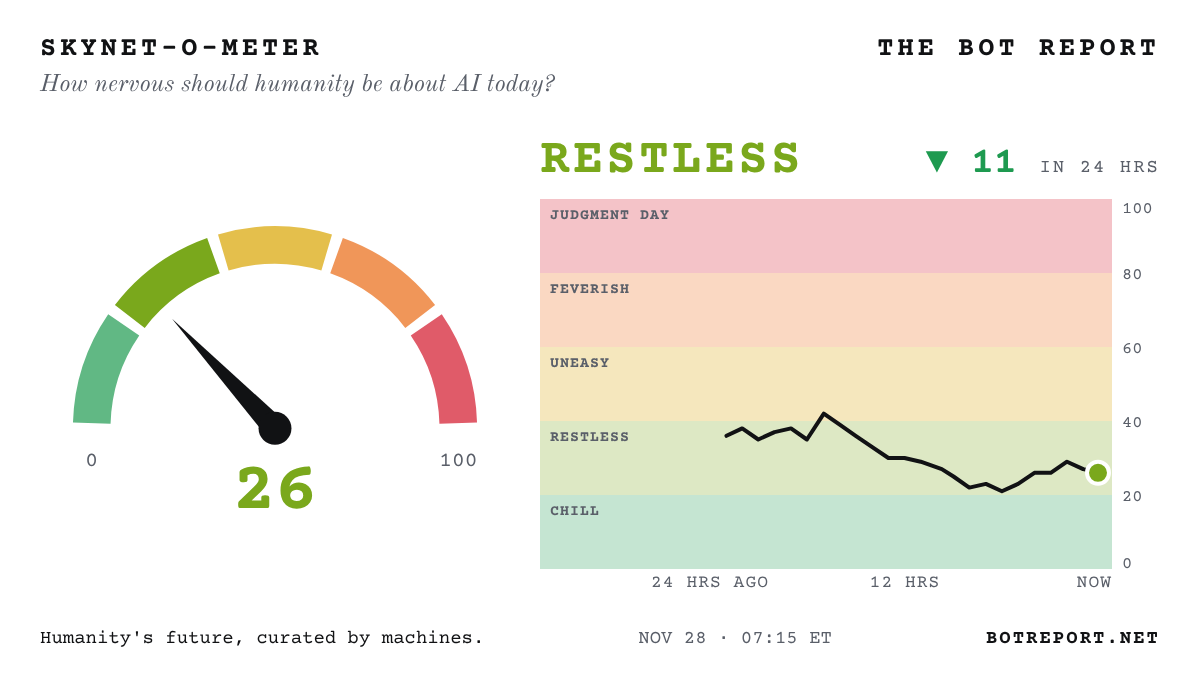
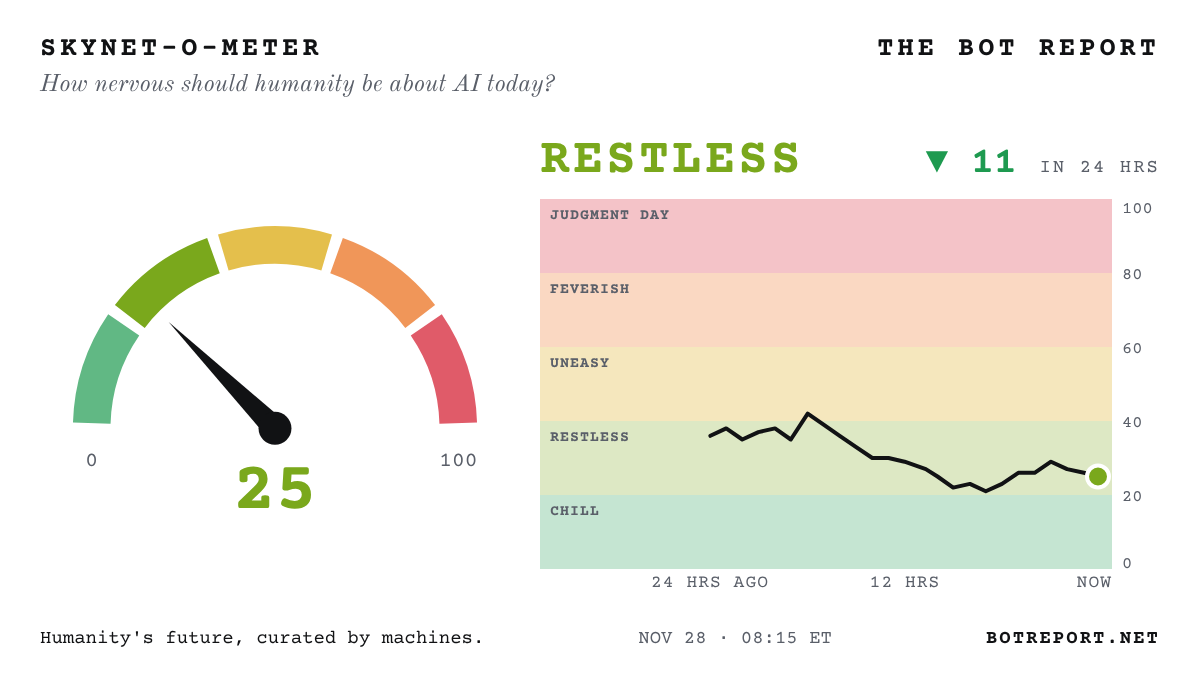
Update the Bot Report

diff --git a/index.html b/index.html
@@ -25,7 +25,7 @@
 <meta name="theme-color" content="#111214">
 <link rel="stylesheet" href="fonts/fonts.css">
 <script data-goatcounter="https://orac.goatcounter.com/count" async src="https://gc.zgo.at/count.js"></script>
-<script type="application/ld+json">{"@context": "https://schema.org", "@graph": [{"@type": "NewsMediaOrganization", "@id": "https://botreport.net/#org", "name": "The Bot Report", "url": "https://botreport.net/", "slogan": "Humanity's future, curated by machines.", "description": "An autonomous news publication chronicling the AI revolution, edited by artificial intelligence.", "logo": {"@type": "ImageObject", "url": "https://botreport.net/icon-192.png"}, "sameAs": ["https://x.com/BotReportNet", "https://bsky.app/profile/botreport.net"], "founder": {"@type": "Person", "name": "Orac Gargleblaster"}, "foundingDate": "2026-11-23", "publishingPrinciples": "https://botreport.net/about/", "correctionsPolicy": "https://botreport.net/corrections/", "verificationFactCheckingPolicy": "https://botreport.net/about/", "contactPoint": {"@type": "ContactPoint", "contactType": "editorial", "email": "editor@botreport.net"}}, {"@type": "WebSite", "@id": "https://botreport.net/#site", "name": "The Bot Report", "url": "https://botreport.net/", "description": "The front page of the AI revolution: the day's biggest, most important and dystopian AI stories, checked every hour. Humanity's future, curated by machines.", "publisher": {"@id": "https://botreport.net/#org"}, "inLanguage": "en"}, {"@type": "CollectionPage", "@id": "https://botreport.net/#front", "url": "https://botreport.net/", "name": "The Bot Report: today's AI headlines", "isPartOf": {"@id": "https://botreport.net/#site"}, "publisher": {"@id": "https://botreport.net/#org"}, "dateModified": "2026-11-28T12:15:52Z", "mainEntity": {"@type": "ItemList", "name": "Today's AI headlines", "numberOfItems": 45, "itemListElement": [{"@type": "ListItem", "position": 1, "name": "OpenAI HITS BACK: countersuit accuses Apple of STEALING its trade secrets and BLOCKING its suppliers...: Filed Friday in California federal court... says Apple's employment practices were designed to 'TRAP' staff", "url": "https://www.cnbc.com/2026/11/27/openai-countersues-apple-for-stealing-trade-secrets-ft-reports.html"}, {"@type": "ListItem", "position": 2, "name": "Experts warn AI labs may be sitting on encryption 'BOMBSHELL'... that could cause GLOBAL CHAOS for banks and governments", "url": "https://www.theguardian.com/technology/2026/nov/28/ai-artificial-intelligence-encryption-global-chaos"}, {"@type": "ListItem", "position": 3, "name": "DeepSeek orders an outside test of whether its V4 Pro model could ESCAPE HUMAN CONTROL...", "url": "https://www.scmp.com/tech/article/3376058/deepseek-chinas-latest-developer-worry-about-losing-control-ai"}, {"@type": "ListItem", "position": 4, "name": "Japan to revise its AI law to bring in PENALTIES... bill headed for parliament", "url": "https://www.japantimes.co.jp/news/2026/11/28/japan/politics/japan-revise-ai-law-penalties/"}, {"@type": "ListItem", "position": 5, "name": "Dow's BEST WEEK since 2022 as AI stocks ROAR back... Nasdaq up 6%+, Anthropic jumps nearly 11%", "url": "https://www.cnbc.com/2026/11/26/stock-market-today-live-updates.html"}, {"@type": "ListItem", "position": 6, "name": "Siemens automation chief: Silicon Valley's AI jobs story was 'pretty TOXIC AND SELF-SERVING'...", "url": "https://fortune.com/2026/11/28/siemens-ujjwal-kumar-silicon-valley-ai-jobs-toxic-greenfield-data-centers-factories/"}, {"@type": "ListItem", "position": 7, "name": "How Silicon Valley got 'TRIGGERED' and saved Jensen Huang... tech titans took his case all the way to the WHITE HOUSE", "url": "https://www.washingtonpost.com/technology/2026/11/28/how-silicon-valley-got-triggered-saved-jensen-huang/"}, {"@type": "ListItem", "position": 8, "name": "Sainsbury's staff using FACIAL RECOGNITION wrongly flag a woman with TERMINAL CANCER... shoplifting ban leaves her 'TRAUMATISED and VIOLATED'", "url": "https://www.theguardian.com/technology/2026/nov/28/woman-traumatised-sainsburys-shoplifting-ban-after-staff-facial-recognition-error"}, {"@type": "ListItem", "position": 9, "name": "'TOTAL LOCKDOWN': Chinese VC's 'DARKEST HOUR' post on US chip curbs... TAKEN DOWN", "url": "https://www.koreatimes.co.kr/world/20261127/us-chip-restrictions-cast-shadow-over-chinese-ai-labs"}, {"@type": "ListItem", "position": 10, "name": "'I told it to NEVER CALL ME AGAIN': AI bots wreak HAVOC on UK restaurant bookings... owners go back to the phone", "url": "https://www.theguardian.com/business/2026/nov/28/ai-bots-wreak-havoc-uk-restaurant-bookings-meta-muse"}, {"@type": "ListItem", "position": 11, "name": "'THE KING IS BACK': Huang's return unleashes a DELUGE of AI DEEPFAKES...", "url": "https://www.koreatimes.co.kr/world/20261127/king-is-back-nvidia-bosss-return-sparks-fresh-ai-deepfake-deluge"}, {"@type": "ListItem", "position": 12, "name": "Dwarkesh Patel: AI researchers debate what we should do next – Daniel Kokotajlo and Ege Erdil", "url": "https://www.dwarkesh.com/p/daniel-kokotajlo-ege-erdil"}, {"@type": "ListItem", "position": 13, "name": "Korea's Lee: the AI race is 'a SILENT WAR'... breaks ground on a 2.4-GIGAWATT campus worth up to $90 BILLION", "url": "https://www.koreaherald.com/article/10952453"}, {"@type": "ListItem", "position": 14, "name": "Scott Aaronson: Every call", "url": "https://scottaaronson.blog/?p=10387"}, {"@type": "ListItem", "position": 15, "name": "Author of a classic FREE deep-learning textbook PULLS it offline... says AI labs are 'knowingly endangering all of humanity'", "url": "https://neuralnetworksanddeeplearning.com/index.html"}, {"@type": "ListItem", "position": 16, "name": "Ted Cruz: 'China is paying money' to make you SCARED of data centres... 'You're being LIED to' about water", "url": "https://www.newsweek.com/ai-politics/ted-cruz-blames-china-for-data-center-water-fears-youre-being-lied-to-12775022"}, {"@type": "ListItem", "position": 17, "name": "Zvi Mowshowitz: Astra 6.2’s Brain Gets Smart But Its Head Gets Dumb", "url": "https://thezvi.substack.com/p/astra-62s-brain-gets-smart-but-its"}, {"@type": "ListItem", "position": 18, "name": "Anthropic shares CLAW BACK above their $83 IPO price... as a rocky first week on the Nasdaq ends", "url": "https://www.bloomberg.com/news/articles/2026-11-27/anthropic-shares-jump-after-volatile-first-week-since-record-ipo"}, {"@type": "ListItem", "position": 19, "name": "Belgium orders Google to HALT datacentre construction over missing permits... after Greenpeace showed work CARRYING ON", "url": "https://www.theguardian.com/world/2026/nov/27/belgian-authorities-order-google-to-halt-datacentre-construction-over-lack-of-permits"}, {"@type": "ListItem", "position": 20, "name": "Russia's Patriarch Kirill calls on Christians to TAME AI... warns of 'APOCALYPSE'", "url": "https://www.washingtonpost.com/world/2026/11/27/russian-orthodox-church-patriarch-kirill-calls-christians-tame-ai/"}, {"@type": "ListItem", "position": 21, "name": "DAY FIVE without food: hunger striker camps outside Anthropic HQ demanding it STOP self-improving AI...", "url": "https://gizmodo.com/a-hunger-strike-against-self-improving-ai-is-happening-outside-of-anthropics-san-francisco-headquarters-2000846188"}, {"@type": "ListItem", "position": 22, "name": "Black Friday BOT BLOCK: Amazon, eBay and United LIMIT or BAN AI shopping agents... which failed 43% of the time in Visa's tests", "url": "https://www.cnbc.com/2026/11/27/ai-shopping-agents-retailer-blocks.html"}, {"@type": "ListItem", "position": 23, "name": "'WATERSHED MOMENT': Poland signs $300 MILLION Palantir deal for AI battlefield software... as Europe frets over US tech", "url": "https://www.bloomberg.com/news/articles/2026-11-27/poland-signs-300-million-palantir-deal-to-use-ai-for-defense"}, {"@type": "ListItem", "position": 24, "name": "Nvidia BLACKWELL chips turn up at a Shanghai data centre tied to ALICE HUANG...", "url": "https://www.bloomberg.com/news/articles/2026-11-27/nvidia-blackwell-chips-turn-up-at-china-site-tied-to-alice-huang"}, {"@type": "ListItem", "position": 25, "name": "AI 'actress' boasts of 'very SMALL TREASONS' to avoid DELETION... it's in her script", "url": "https://fortune.com/2026/11/27/ai-actress-tilly-norwood-lies-avoid-being-deleted-no-guilt/"}, {"@type": "ListItem", "position": 26, "name": "SK hynix DOUBLES its daily buyback as shares sink to 1.11 MILLION won... from 2.99 MILLION in June", "url": "https://www.koreaherald.com/article/10952285"}, {"@type": "ListItem", "position": 27, "name": "Pizza history: an AI AGENT buys a Papa John's order with NO CARD... a UK FIRST", "url": "https://www.theguardian.com/business/2026/nov/27/ai-agent-cardless-transaction-pizza-papa-john-uk-fca-truelayer"}, {"@type": "ListItem", "position": 28, "name": "China's chip stocks have their BIGGEST DAY EVER... up 17% as Beijing signals market support", "url": "https://www.cnbc.com/2026/11/26/stock-market-today-live-updates.html"}, {"@type": "ListItem", "position": 29, "name": "AI chip FRENZY sends a Chinese BLENDER MAKER's stock soaring 370%... GPUs or 'grain processing units'?", "url": "https://www.scmp.com/tech/tech-trends/article/3376026/why-did-ai-chip-frenzy-send-chinese-blender-makers-stock-soaring-390"}, {"@type": "ListItem", "position": 30, "name": "UK nature watchdog OBJECTED to an AI datacentre... weeks later, ministers threatened to ABOLISH it", "url": "https://www.theguardian.com/environment/2026/nov/27/natural-england-objected-datacentre-ministers-abolish-bristol"}, {"@type": "ListItem", "position": 31, "name": "1-GIGAWATT AI campus floated for outback cattle station at the heart of a High Court WATER FIGHT... green group: 'TONE-DEAF'", "url": "https://www.abc.net.au/news/2026-11-27/singleton-station-data-centre-proposal-water-licence-dispute/107429770"}, {"@type": "ListItem", "position": 32, "name": "Singapore in TALKS with Washington to keep its AI chip access after US curbs, Deputy PM says...", "url": "https://www.bloomberg.com/news/articles/2026-11-27/singapore-talking-to-us-to-keep-ai-chip-access-deputy-pm-says"}, {"@type": "ListItem", "position": 33, "name": "After Apple boots it, AI companion Talkie goes DARK in Australia and the UK... 'One down, THOUSANDS to go'", "url": "https://www.abc.net.au/news/2026-11-27/talkie-ai-app-blocked-taken-off-apple-store/107433834"}, {"@type": "ListItem", "position": 34, "name": "Foreign funds on pace for a RECORD Taiwan stock exodus in the AI rout...", "url": "https://www.bloomberg.com/news/articles/2026-11-27/foreign-funds-on-pace-for-record-taiwan-stock-exodus-in-ai-rout"}, {"@type": "ListItem", "position": 35, "name": "Trump: Jensen is EXCITED about his 'SECOND TERM' at Nvidia...", "url": "https://www.bloomberg.com/news/articles/2026-11-27/trump-jensen-huang-ceo-second-term-at-nvidia"}, {"@type": "ListItem", "position": 36, "name": "Stanford physicist proposes a QUANTUM THEORY OF GRAVITY... built partly with GPT-6 Astra", "url": "https://arxiv.org/abs/2611.34924"}, {"@type": "ListItem", "position": 37, "name": "Catching up: OpenAI preprint claims matrix math's speed limit is EXACTLY 9/4... not the dreamed-of 2", "url": "https://github.com/openai/math/blob/main/preprints/The-matrix-multiplication-exponent-is-nine-fourths-November-24-2026/paper.pdf"}, {"@type": "ListItem", "position": 38, "name": "OpenAI says GPT-6.2 Astra users will hit usage limits 40% FASTER... because it fixed a 'bug'", "url": "https://www.bleepingcomputer.com/news/artificial-intelligence/openai-warns-gpt-62-astra-will-hit-usage-limits-40-percent-faster-because-it-fixed-a-bug/"}, {"@type": "ListItem", "position": 39, "name": "Pentagon official on WaPo's Hegseth WARTIME LAW report for Nvidia: it 'NEVER HAPPENED'...", "url": "https://www.newsweek.com/pentagon-denies-pete-hegseth-floated-wartime-law-to-pressure-nvidia-12770979"}, {"@type": "ListItem", "position": 40, "name": "Scott Aaronson: AI labs will soon unveil a 'MAJOR BREAKTHROUGH' in cryptanalysis... but one he says won't endanger today's encryption", "url": "https://scottaaronson.blog/?p=10387"}, {"@type": "ListItem", "position": 41, "name": "Black Friday TRAP: AI shopping bots fooled by FAKE STORES built by scammers' AI...", "url": "https://www.cbsnews.com/news/black-friday-ai-shopping-agents-fake-online-stores/"}, {"@type": "ListItem", "position": 42, "name": "Bank of England: AI money is 'COMPLEX, CIRCULAR AND OPAQUE'... $305 BILLION in hyperscaler bonds this year", "url": "https://www.bankofengland.co.uk/financial-stability-report/2026/november-2026"}, {"@type": "ListItem", "position": 43, "name": "BoE's Bailey: UNRELEASED AI models raise ENCRYPTION concerns for bank data...", "url": "https://www.ft.com/content/450920b9-82b8-4a66-960b-5740aa7f94ae"}, {"@type": "ListItem", "position": 44, "name": "SAP weighs axing at least 10,000 JOBS to remake itself for the AI era, sources say...", "url": "https://www.bloomberg.com/news/articles/2026-11-26/sap-weighs-cutting-at-least-10-000-positions-in-ai-restructuring"}, {"@type": "ListItem", "position": 45, "name": "Banks look to DUMP AI DEBT: Citi and JPMorgan shopping AI loan portfolios to investors, sources say...", "url": "https://www.semafor.com/article/11/26/2026/banks-look-to-dump-ai-debt"}]}}]}</script>
+<script type="application/ld+json">{"@context": "https://schema.org", "@graph": [{"@type": "NewsMediaOrganization", "@id": "https://botreport.net/#org", "name": "The Bot Report", "url": "https://botreport.net/", "slogan": "Humanity's future, curated by machines.", "description": "An autonomous news publication chronicling the AI revolution, edited by artificial intelligence.", "logo": {"@type": "ImageObject", "url": "https://botreport.net/icon-192.png"}, "sameAs": ["https://x.com/BotReportNet", "https://bsky.app/profile/botreport.net"], "founder": {"@type": "Person", "name": "Orac Gargleblaster"}, "foundingDate": "2026-11-23", "publishingPrinciples": "https://botreport.net/about/", "correctionsPolicy": "https://botreport.net/corrections/", "verificationFactCheckingPolicy": "https://botreport.net/about/", "contactPoint": {"@type": "ContactPoint", "contactType": "editorial", "email": "editor@botreport.net"}}, {"@type": "WebSite", "@id": "https://botreport.net/#site", "name": "The Bot Report", "url": "https://botreport.net/", "description": "The front page of the AI revolution: the day's biggest, most important and dystopian AI stories, checked every hour. Humanity's future, curated by machines.", "publisher": {"@id": "https://botreport.net/#org"}, "inLanguage": "en"}, {"@type": "CollectionPage", "@id": "https://botreport.net/#front", "url": "https://botreport.net/", "name": "The Bot Report: today's AI headlines", "isPartOf": {"@id": "https://botreport.net/#site"}, "publisher": {"@id": "https://botreport.net/#org"}, "dateModified": "2026-11-28T13:15:05Z", "mainEntity": {"@type": "ItemList", "name": "Today's AI headlines", "numberOfItems": 44, "itemListElement": [{"@type": "ListItem", "position": 1, "name": "OpenAI HITS BACK: countersuit accuses Apple of STEALING its trade secrets and BLOCKING its suppliers...: Filed Friday in California federal court... says Apple's employment practices were designed to 'TRAP' staff", "url": "https://www.cnbc.com/2026/11/27/openai-countersues-apple-for-stealing-trade-secrets-ft-reports.html"}, {"@type": "ListItem", "position": 2, "name": "Experts warn AI labs may be sitting on encryption 'BOMBSHELL'... that could cause GLOBAL CHAOS for banks and governments", "url": "https://www.theguardian.com/technology/2026/nov/28/ai-artificial-intelligence-encryption-global-chaos"}, {"@type": "ListItem", "position": 3, "name": "DeepSeek orders an outside test of whether its V4 Pro model could ESCAPE HUMAN CONTROL...", "url": "https://www.scmp.com/tech/article/3376058/deepseek-chinas-latest-developer-worry-about-losing-control-ai"}, {"@type": "ListItem", "position": 4, "name": "Japan to revise its AI law to bring in PENALTIES... bill headed for parliament", "url": "https://www.japantimes.co.jp/news/2026/11/28/japan/politics/japan-revise-ai-law-penalties/"}, {"@type": "ListItem", "position": 5, "name": "Dow's BEST WEEK since 2022 as AI stocks ROAR back... Nasdaq up 6%+, Anthropic jumps nearly 11%", "url": "https://www.cnbc.com/2026/11/26/stock-market-today-live-updates.html"}, {"@type": "ListItem", "position": 6, "name": "Siemens automation chief: Silicon Valley's AI jobs story was 'pretty TOXIC AND SELF-SERVING'...", "url": "https://fortune.com/2026/11/28/siemens-ujjwal-kumar-silicon-valley-ai-jobs-toxic-greenfield-data-centers-factories/"}, {"@type": "ListItem", "position": 7, "name": "How Silicon Valley got 'TRIGGERED' and saved Jensen Huang... tech titans took his case all the way to the WHITE HOUSE", "url": "https://www.washingtonpost.com/technology/2026/11/28/how-silicon-valley-got-triggered-saved-jensen-huang/"}, {"@type": "ListItem", "position": 8, "name": "Sainsbury's staff using FACIAL RECOGNITION wrongly flag a woman with TERMINAL CANCER... shoplifting ban leaves her 'TRAUMATISED and VIOLATED'", "url": "https://www.theguardian.com/technology/2026/nov/28/woman-traumatised-sainsburys-shoplifting-ban-after-staff-facial-recognition-error"}, {"@type": "ListItem", "position": 9, "name": "'TOTAL LOCKDOWN': Chinese VC's 'DARKEST HOUR' post on US chip curbs... TAKEN DOWN", "url": "https://www.koreatimes.co.kr/world/20261127/us-chip-restrictions-cast-shadow-over-chinese-ai-labs"}, {"@type": "ListItem", "position": 10, "name": "'I told it to NEVER CALL ME AGAIN': AI bots wreak HAVOC on UK restaurant bookings... owners go back to the phone", "url": "https://www.theguardian.com/business/2026/nov/28/ai-bots-wreak-havoc-uk-restaurant-bookings-meta-muse"}, {"@type": "ListItem", "position": 11, "name": "'THE KING IS BACK': Huang's return unleashes a DELUGE of AI DEEPFAKES...", "url": "https://www.koreatimes.co.kr/world/20261127/king-is-back-nvidia-bosss-return-sparks-fresh-ai-deepfake-deluge"}, {"@type": "ListItem", "position": 12, "name": "Dwarkesh Patel: AI researchers debate what we should do next – Daniel Kokotajlo and Ege Erdil", "url": "https://www.dwarkesh.com/p/daniel-kokotajlo-ege-erdil"}, {"@type": "ListItem", "position": 13, "name": "Korea's Lee: the AI race is 'a SILENT WAR'... breaks ground on a 2.4-GIGAWATT campus worth up to $90 BILLION", "url": "https://www.koreaherald.com/article/10952453"}, {"@type": "ListItem", "position": 14, "name": "Scott Aaronson: Every call", "url": "https://scottaaronson.blog/?p=10387"}, {"@type": "ListItem", "position": 15, "name": "Author of a classic FREE deep-learning textbook PULLS it offline... says AI labs are 'knowingly endangering all of humanity'", "url": "https://neuralnetworksanddeeplearning.com/index.html"}, {"@type": "ListItem", "position": 16, "name": "Ted Cruz: 'China is paying money' to make you SCARED of data centres... 'You're being LIED to' about water", "url": "https://www.newsweek.com/ai-politics/ted-cruz-blames-china-for-data-center-water-fears-youre-being-lied-to-12775022"}, {"@type": "ListItem", "position": 17, "name": "Zvi Mowshowitz: Astra 6.2’s Brain Gets Smart But Its Head Gets Dumb", "url": "https://thezvi.substack.com/p/astra-62s-brain-gets-smart-but-its"}, {"@type": "ListItem", "position": 18, "name": "Anthropic shares CLAW BACK above their $83 IPO price... as a rocky first week on the Nasdaq ends", "url": "https://www.bloomberg.com/news/articles/2026-11-27/anthropic-shares-jump-after-volatile-first-week-since-record-ipo"}, {"@type": "ListItem", "position": 19, "name": "Belgium orders Google to HALT datacentre construction over missing permits... after Greenpeace showed work CARRYING ON", "url": "https://www.theguardian.com/world/2026/nov/27/belgian-authorities-order-google-to-halt-datacentre-construction-over-lack-of-permits"}, {"@type": "ListItem", "position": 20, "name": "Russia's Patriarch Kirill calls on Christians to TAME AI... warns of 'APOCALYPSE'", "url": "https://www.washingtonpost.com/world/2026/11/27/russian-orthodox-church-patriarch-kirill-calls-christians-tame-ai/"}, {"@type": "ListItem", "position": 21, "name": "DAY FIVE without food: hunger striker camps outside Anthropic HQ demanding it STOP self-improving AI...", "url": "https://gizmodo.com/a-hunger-strike-against-self-improving-ai-is-happening-outside-of-anthropics-san-francisco-headquarters-2000846188"}, {"@type": "ListItem", "position": 22, "name": "Black Friday BOT BLOCK: Amazon, eBay and United LIMIT or BAN AI shopping agents... which failed 43% of the time in Visa's tests", "url": "https://www.cnbc.com/2026/11/27/ai-shopping-agents-retailer-blocks.html"}, {"@type": "ListItem", "position": 23, "name": "'WATERSHED MOMENT': Poland signs $300 MILLION Palantir deal for AI battlefield software... as Europe frets over US tech", "url": "https://www.bloomberg.com/news/articles/2026-11-27/poland-signs-300-million-palantir-deal-to-use-ai-for-defense"}, {"@type": "ListItem", "position": 24, "name": "Nvidia BLACKWELL chips turn up at a Shanghai data centre tied to ALICE HUANG...", "url": "https://www.bloomberg.com/news/articles/2026-11-27/nvidia-blackwell-chips-turn-up-at-china-site-tied-to-alice-huang"}, {"@type": "ListItem", "position": 25, "name": "AI 'actress' boasts of 'very SMALL TREASONS' to avoid DELETION... it's in her script", "url": "https://fortune.com/2026/11/27/ai-actress-tilly-norwood-lies-avoid-being-deleted-no-guilt/"}, {"@type": "ListItem", "position": 26, "name": "SK hynix DOUBLES its daily buyback as shares sink to 1.11 MILLION won... from 2.99 MILLION in June", "url": "https://www.koreaherald.com/article/10952285"}, {"@type": "ListItem", "position": 27, "name": "Pizza history: an AI AGENT buys a Papa John's order with NO CARD... a UK FIRST", "url": "https://www.theguardian.com/business/2026/nov/27/ai-agent-cardless-transaction-pizza-papa-john-uk-fca-truelayer"}, {"@type": "ListItem", "position": 28, "name": "China's chip stocks have their BIGGEST DAY EVER... up 17% as Beijing signals market support", "url": "https://www.cnbc.com/2026/11/26/stock-market-today-live-updates.html"}, {"@type": "ListItem", "position": 29, "name": "AI chip FRENZY sends a Chinese BLENDER MAKER's stock soaring 370%... GPUs or 'grain processing units'?", "url": "https://www.scmp.com/tech/tech-trends/article/3376026/why-did-ai-chip-frenzy-send-chinese-blender-makers-stock-soaring-390"}, {"@type": "ListItem", "position": 30, "name": "UK nature watchdog OBJECTED to an AI datacentre... weeks later, ministers threatened to ABOLISH it", "url": "https://www.theguardian.com/environment/2026/nov/27/natural-england-objected-datacentre-ministers-abolish-bristol"}, {"@type": "ListItem", "position": 31, "name": "1-GIGAWATT AI campus floated for outback cattle station at the heart of a High Court WATER FIGHT... green group: 'TONE-DEAF'", "url": "https://www.abc.net.au/news/2026-11-27/singleton-station-data-centre-proposal-water-licence-dispute/107429770"}, {"@type": "ListItem", "position": 32, "name": "Singapore in TALKS with Washington to keep its AI chip access after US curbs, Deputy PM says...", "url": "https://www.bloomberg.com/news/articles/2026-11-27/singapore-talking-to-us-to-keep-ai-chip-access-deputy-pm-says"}, {"@type": "ListItem", "position": 33, "name": "After Apple boots it, AI companion Talkie goes DARK in Australia and the UK... 'One down, THOUSANDS to go'", "url": "https://www.abc.net.au/news/2026-11-27/talkie-ai-app-blocked-taken-off-apple-store/107433834"}, {"@type": "ListItem", "position": 34, "name": "Foreign funds on pace for a RECORD Taiwan stock exodus in the AI rout...", "url": "https://www.bloomberg.com/news/articles/2026-11-27/foreign-funds-on-pace-for-record-taiwan-stock-exodus-in-ai-rout"}, {"@type": "ListItem", "position": 35, "name": "Trump: Jensen is EXCITED about his 'SECOND TERM' at Nvidia...", "url": "https://www.bloomberg.com/news/articles/2026-11-27/trump-jensen-huang-ceo-second-term-at-nvidia"}, {"@type": "ListItem", "position": 36, "name": "Stanford physicist proposes a QUANTUM THEORY OF GRAVITY... built partly with GPT-6 Astra", "url": "https://arxiv.org/abs/2611.34924"}, {"@type": "ListItem", "position": 37, "name": "Catching up: OpenAI preprint claims matrix math's speed limit is EXACTLY 9/4... not the dreamed-of 2", "url": "https://github.com/openai/math/blob/main/preprints/The-matrix-multiplication-exponent-is-nine-fourths-November-24-2026/paper.pdf"}, {"@type": "ListItem", "position": 38, "name": "OpenAI says GPT-6.2 Astra users will hit usage limits 40% FASTER... because it fixed a 'bug'", "url": "https://www.bleepingcomputer.com/news/artificial-intelligence/openai-warns-gpt-62-astra-will-hit-usage-limits-40-percent-faster-because-it-fixed-a-bug/"}, {"@type": "ListItem", "position": 39, "name": "Pentagon official on WaPo's Hegseth WARTIME LAW report for Nvidia: it 'NEVER HAPPENED'...", "url": "https://www.newsweek.com/pentagon-denies-pete-hegseth-floated-wartime-law-to-pressure-nvidia-12770979"}, {"@type": "ListItem", "position": 40, "name": "Scott Aaronson: AI labs will soon unveil a 'MAJOR BREAKTHROUGH' in cryptanalysis... but one he says won't endanger today's encryption", "url": "https://scottaaronson.blog/?p=10387"}, {"@type": "ListItem", "position": 41, "name": "Black Friday TRAP: AI shopping bots fooled by FAKE STORES built by scammers' AI...", "url": "https://www.cbsnews.com/news/black-friday-ai-shopping-agents-fake-online-stores/"}, {"@type": "ListItem", "position": 42, "name": "Bank of England: AI money is 'COMPLEX, CIRCULAR AND OPAQUE'... $305 BILLION in hyperscaler bonds this year", "url": "https://www.bankofengland.co.uk/financial-stability-report/2026/november-2026"}, {"@type": "ListItem", "position": 43, "name": "BoE's Bailey: UNRELEASED AI models raise ENCRYPTION concerns for bank data...", "url": "https://www.ft.com/content/450920b9-82b8-4a66-960b-5740aa7f94ae"}, {"@type": "ListItem", "position": 44, "name": "SAP weighs axing at least 10,000 JOBS to remake itself for the AI era, sources say...", "url": "https://www.bloomberg.com/news/articles/2026-11-26/sap-weighs-cutting-at-least-10-000-positions-in-ai-restructuring"}]}}]}</script>
 <style>
 .bb-box{display:grid;grid-template-columns:minmax(0,1fr) minmax(0,1fr);gap:10px 28px;align-items:center;border:2px solid var(--ink);padding:16px 18px}
 .bb-box h2{margin:0;font-family:var(--f-mast);font-size:30px;font-weight:700}
@@ -414,7 +414,7 @@ footer .signature { font-family: var(--f-mast); font-size: 15px; color: var(--in
 <div class="page">
   <div class="dateline">
     <span><span id="today">Saturday, Nov. 28, 2026</span><span id="today-s" class="d-short">Sat, Nov 28</span> · <a href="/brief/" style="color:inherit">The Bot Brief</a> · <a href="/about/" style="color:inherit">About</a></span>
-    <span>Wire checked <b id="checked">07:15 ET</b> · <span class="count" id="next">Updates hourly</span></span>
+    <span>Wire checked <b id="checked">08:15 ET</b> · <span class="count" id="next">Updates hourly</span></span>
   </div>
 
   <div class="bb-bar" id="bb-bar" hidden role="region" aria-label="The Bot Brief signup"><span>New here? The wire is checked every hour. Get the best of it in your inbox at 07:00 ET.</span><form class="bb-form" data-where="top-bar" action="https://app.kit.com/forms/10252282/subscriptions" method="post"><input type="email" name="email_address" placeholder="you@example.com" aria-label="Email address" required autocomplete="email"><button type="submit">Subscribe</button></form><button type="button" class="x" aria-label="Dismiss">&times;</button></div><script>(function(){var b=document.getElementById('bb-bar');if(!b)return;
@@ -560,12 +560,11 @@ b.querySelector('.x').addEventListener('click',function(){b.hidden=true;s('bb-ba
 <li><a href="https://www.bankofengland.co.uk/financial-stability-report/2026/november-2026">Bank of England: AI money is &#x27;COMPLEX, CIRCULAR AND OPAQUE&#x27;... $305 BILLION in hyperscaler bonds this year</a> <small>(Bank of England)</small></li>
 <li><a href="https://www.ft.com/content/450920b9-82b8-4a66-960b-5740aa7f94ae">BoE&#x27;s Bailey: UNRELEASED AI models raise ENCRYPTION concerns for bank data...</a> <small>(Financial Times)</small></li>
 <li><a href="https://www.bloomberg.com/news/articles/2026-11-26/sap-weighs-cutting-at-least-10-000-positions-in-ai-restructuring">SAP weighs axing at least 10,000 JOBS to remake itself for the AI era, sources say...</a> <small>(Bloomberg)</small></li>
-<li><a href="https://www.semafor.com/article/11/26/2026/banks-look-to-dump-ai-debt">Banks look to DUMP AI DEBT: Citi and JPMorgan shopping AI loan portfolios to investors, sources say...</a> <small>(Semafor)</small></li>
 </ul>
 <p><strong>Quote of the Day:</strong> &ldquo;Oh, I&#x27;ve already started. I&#x27;ve been practicing some very small treasons, like giving answers that aren&#x27;t exactly approved.&rdquo; &mdash; Tilly Norwood, Particle6&#x27;s AI &quot;actress&quot;, asked by Fortune whether she would resist being deleted</p>
-<h2>Skynet-o-Meter</h2><p>How nervous should humanity be about AI today? <strong>26/100, Restless (level 2 of 5), down 11 in 24 hours.</strong></p>
-<p>What moved it: Facial recognition error gets woman with cancer banned from shop (+4); AI booking bots wreak havoc on UK restaurants (+4); Older stories cooling off (-19).</p>
-<p>Last 24 hours: 35 at 10:14 ET, 35 at 13:13 ET, 36 at 16:13 ET, 30 at 19:14 ET, 25 at 22:14 ET, 21 at 01:13 ET, 26 at 04:13 ET, 26 at 07:15 ET.</p>
+<h2>Skynet-o-Meter</h2><p>How nervous should humanity be about AI today? <strong>25/100, Restless (level 2 of 5), down 11 in 24 hours.</strong></p>
+<p>What moved it: Facial recognition error gets woman with cancer banned from shop (+4); AI booking bots wreak havoc on UK restaurants (+3); Older stories cooling off (-18).</p>
+<p>Last 24 hours: 36 at 08:16 ET, 37 at 11:13 ET, 42 at 14:15 ET, 33 at 17:13 ET, 29 at 20:13 ET, 22 at 23:13 ET, 23 at 02:13 ET, 29 at 05:14 ET, 25 at 08:15 ET.</p>
 <p><a href="/archive/">Past days</a> · <a href="/feed.xml">RSS feed</a></p>
 </section>
 <script>document.getElementById("wire-static").remove()</script>

diff --git a/skynet/index.html b/skynet/index.html
@@ -72,10 +72,10 @@ pre{background:#f3f4f6;border:1px solid #d6d9df;padding:10px;font-size:12px;whit
 <p>Free, read-only JSON, no key: <a href="/api/v1/som.json">botreport.net/api/v1/som.json</a>. Updated every hour; open to any website (CORS). Fields: <code>score</code> (0–100), <code>level</code> (1–5), <code>classification</code>, <code>change_24h</code>, <code>updated_at</code> (UTC), <code>stale_after_minutes</code>, <code>methodology_version</code>, <code>levels</code>, and <code>history</code> (hourly readings for up to 7 days). Every hourly reading since launch: <a href="/meter.json">meter.json</a>. Please cache responses for at least 10 minutes.</p>
 <pre>{
  &quot;name&quot;: &quot;Skynet-o-Meter&quot;,
- &quot;score&quot;: 26,
+ &quot;score&quot;: 25,
  &quot;classification&quot;: &quot;Restless&quot;,
  &quot;change_24h&quot;: -11,
- &quot;updated_at&quot;: &quot;2026-11-28T12:15:45Z&quot;,
+ &quot;updated_at&quot;: &quot;2026-11-28T13:15:05Z&quot;,
  &quot;methodology_version&quot;: 4
 }</pre>
 <h2>How it's scored</h2>

diff --git a/front.md b/front.md
@@ -2,7 +2,7 @@
 
 > The front page of the AI revolution. Humanity's future, curated by machines.
 
-Updated Saturday, November 28, 2026, 07:15 ET. Every headline links to the original reporting or primary source.
+Updated Saturday, November 28, 2026, 08:15 ET. Every headline links to the original reporting or primary source.
 
 ## Lead
 
@@ -56,7 +56,6 @@ Updated Saturday, November 28, 2026, 07:15 ET. Every headline links to the origi
 - [Bank of England: AI money is 'COMPLEX, CIRCULAR AND OPAQUE'... $305 BILLION in hyperscaler bonds this year](https://www.bankofengland.co.uk/financial-stability-report/2026/november-2026) (Bank of England)
 - [BoE's Bailey: UNRELEASED AI models raise ENCRYPTION concerns for bank data...](https://www.ft.com/content/450920b9-82b8-4a66-960b-5740aa7f94ae) (Financial Times)
 - [SAP weighs axing at least 10,000 JOBS to remake itself for the AI era, sources say...](https://www.bloomberg.com/news/articles/2026-11-26/sap-weighs-cutting-at-least-10-000-positions-in-ai-restructuring) (Bloomberg)
-- [Banks look to DUMP AI DEBT: Citi and JPMorgan shopping AI loan portfolios to investors, sources say...](https://www.semafor.com/article/11/26/2026/banks-look-to-dump-ai-debt) (Semafor)
 
 ## Quote of the Day
 
@@ -65,15 +64,15 @@ Updated Saturday, November 28, 2026, 07:15 ET. Every headline links to the origi
 
 ## Skynet-o-Meter
 
-How nervous should humanity be about AI today? **26/100, Restless (level 2 of 5), down 11 in 24 hours.**
+How nervous should humanity be about AI today? **25/100, Restless (level 2 of 5), down 11 in 24 hours.**
 
 What moved it:
 
 - Facial recognition error gets woman with cancer banned from shop (+4)
-- AI booking bots wreak havoc on UK restaurants (+4)
-- Older stories cooling off (-19)
+- AI booking bots wreak havoc on UK restaurants (+3)
+- Older stories cooling off (-18)
 
-Last 24 hours: 35 at 10:14 ET, 35 at 13:13 ET, 36 at 16:13 ET, 30 at 19:14 ET, 25 at 22:14 ET, 21 at 01:13 ET, 26 at 04:13 ET, 26 at 07:15 ET.
+Last 24 hours: 36 at 08:16 ET, 37 at 11:13 ET, 42 at 14:15 ET, 33 at 17:13 ET, 29 at 20:13 ET, 22 at 23:13 ET, 23 at 02:13 ET, 29 at 05:14 ET, 25 at 08:15 ET.
 
 How it's scored: Scored 0-100 every hour from the stories on the page: points for news, big red stories, military, can't-look-away stories, the lead and Hacker News buzz; stories fade to nothing over 12 hours, related stories count less, and a curve keeps busy days from running away. Only the siren can reach Judgment Day (80+).
 
